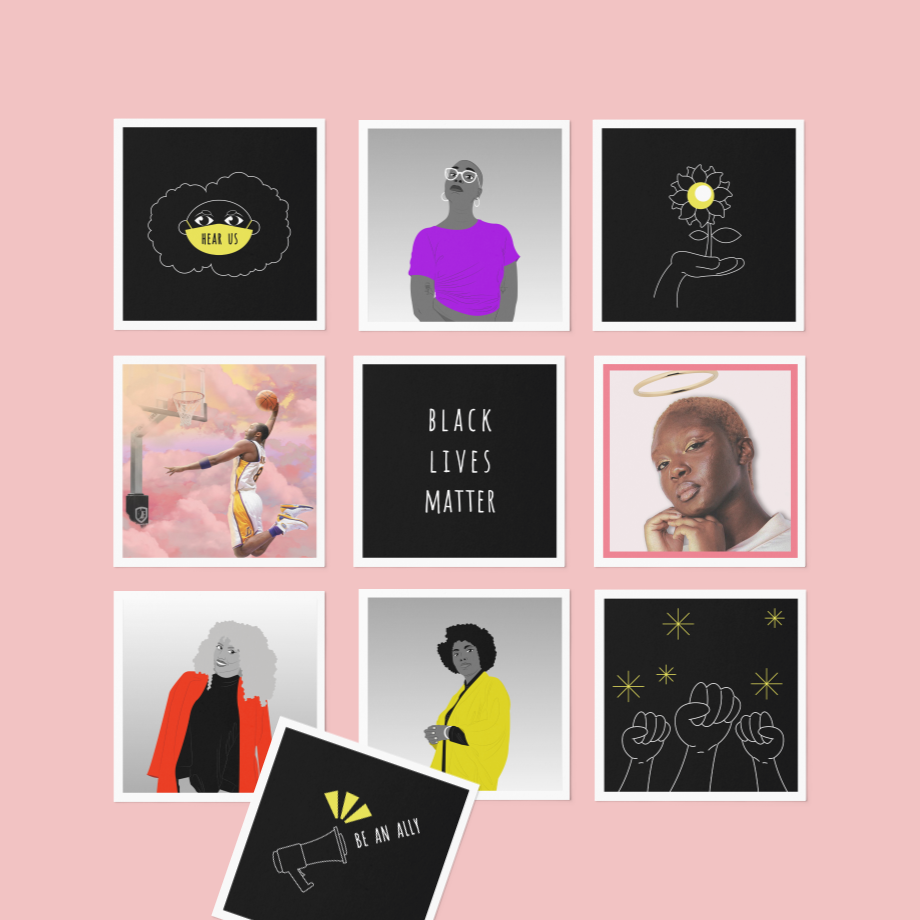
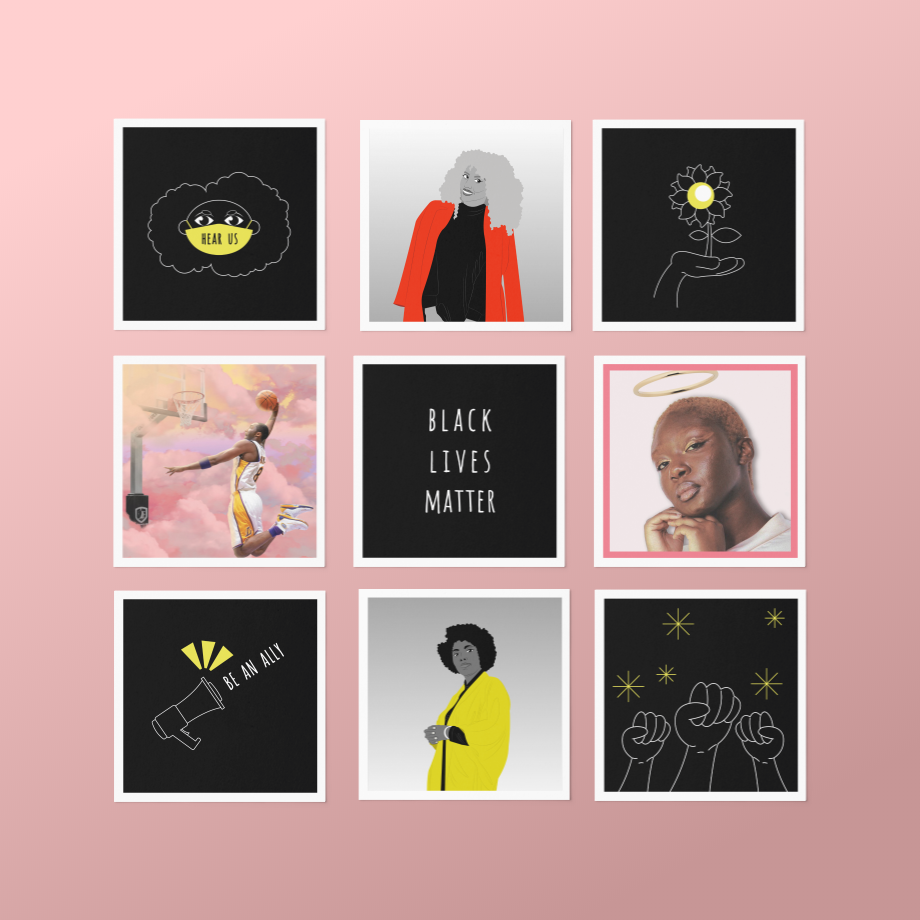
Remove Camille from the artworks

Changed region(s): [[0.0, 0.3957, 1.0, 1.0], [0.3957, 0.1217, 0.6391, 0.3652]]

diff --git a/src/data/campaign.ts b/src/data/campaign.ts
@@ -46,20 +46,20 @@ export const blm: ICampaignData =
             logo: blm_logo,
         },
         startDate: new Date(2020, 7, 3, 0, 0, 0, 0),
-        endDate: new Date(2020, 7, 16, 23, 59, 59, 0),
+        endDate: new Date(2020, 7, 23, 23, 59, 59, 0),
         description: "We want to celebrate Black people making the world a better place!  Therefore, we created a series of original artworks honoring Black people having an impact on their community. Using different mediums and formats, we aspired to give Black figures of activism and militantism space and help more voices come forward and speak out. Together with Ouistiti Print, we are happy to give you the opportunity to support our mission. We are selling for the benefit of #BlackLivesMatters, different perks customized with the portrait of impactful Black figures dear to us. We described why we chose this person for each artwork, so don't hesitate to get to know them more. Hear them now, and never let them go silent again.",
         perksDescription: "We picked 4 different mediums to help the voice of Black people be heard. You can get one of the portraits on an A2 poster or a Tote bag or chose to get the full collection on small cards and always carry them around with you. Finally, we created some unique stickers to help you spread the words. All the profits will be sent to #BlackLivesMatter.",
         perks:[
             {
                 perk: perks.poster,
-                defaultArtwork: artworks.camilleAumontCarnel,
-                artworks:[artworks.kobeBryant, artworks.oluwaytoyinSalau, artworks.camilleAumontCarnel, artworks.jaeAdrianaParmer, artworks.amandineGay],
+                defaultArtwork: artworks.amandineGay,
+                artworks:[artworks.kobeBryant, artworks.oluwaytoyinSalau, artworks.jaeAdrianaParmer, artworks.amandineGay],
                 groupDescription: "Original portraits of impactful Black people on high quality A2 poster."
             },
             {
                 perk: perks.tote,
                 defaultArtwork: artworks.kobeBryant,
-                artworks:[artworks.kobeBryant, artworks.oluwaytoyinSalau, artworks.camilleAumontCarnel, artworks.jaeAdrianaParmer, artworks.amandineGay],
+                artworks:[artworks.kobeBryant, artworks.oluwaytoyinSalau, artworks.jaeAdrianaParmer, artworks.amandineGay],
                 groupDescription: "Original portraits of impactful Black people printed on a textile tote bag."
             },
             {
@@ -71,10 +71,10 @@ export const blm: ICampaignData =
             {
                 perk: perks.cards,
                 defaultArtwork: artworks.blmstiocker03,
-                artworks:[artworks.kobeBryant, artworks.oluwaytoyinSalau, artworks.camilleAumontCarnel, artworks.jaeAdrianaParmer, artworks.amandineGay,artworks.blmstiocker01, artworks.blmstiocker02, artworks.blmstiocker03, artworks.blmstiocker04, artworks.blmstiocker05],
+                artworks:[artworks.kobeBryant, artworks.oluwaytoyinSalau, artworks.jaeAdrianaParmer, artworks.amandineGay,artworks.blmstiocker01, artworks.blmstiocker02, artworks.blmstiocker03, artworks.blmstiocker04, artworks.blmstiocker05],
                 groupDescription: "All the original artworks designed by Priya Ducommun and Johari Stone on high quality cards with a matte finish."
             },
         ],
-        artworks:[artworks.kobeBryant, artworks.oluwaytoyinSalau, artworks.camilleAumontCarnel, artworks.jaeAdrianaParmer, artworks.amandineGay],
+        artworks:[artworks.kobeBryant, artworks.oluwaytoyinSalau, artworks.jaeAdrianaParmer, artworks.amandineGay],
         artists:[artists.priyaducommun, artists.joharistone],
     };
